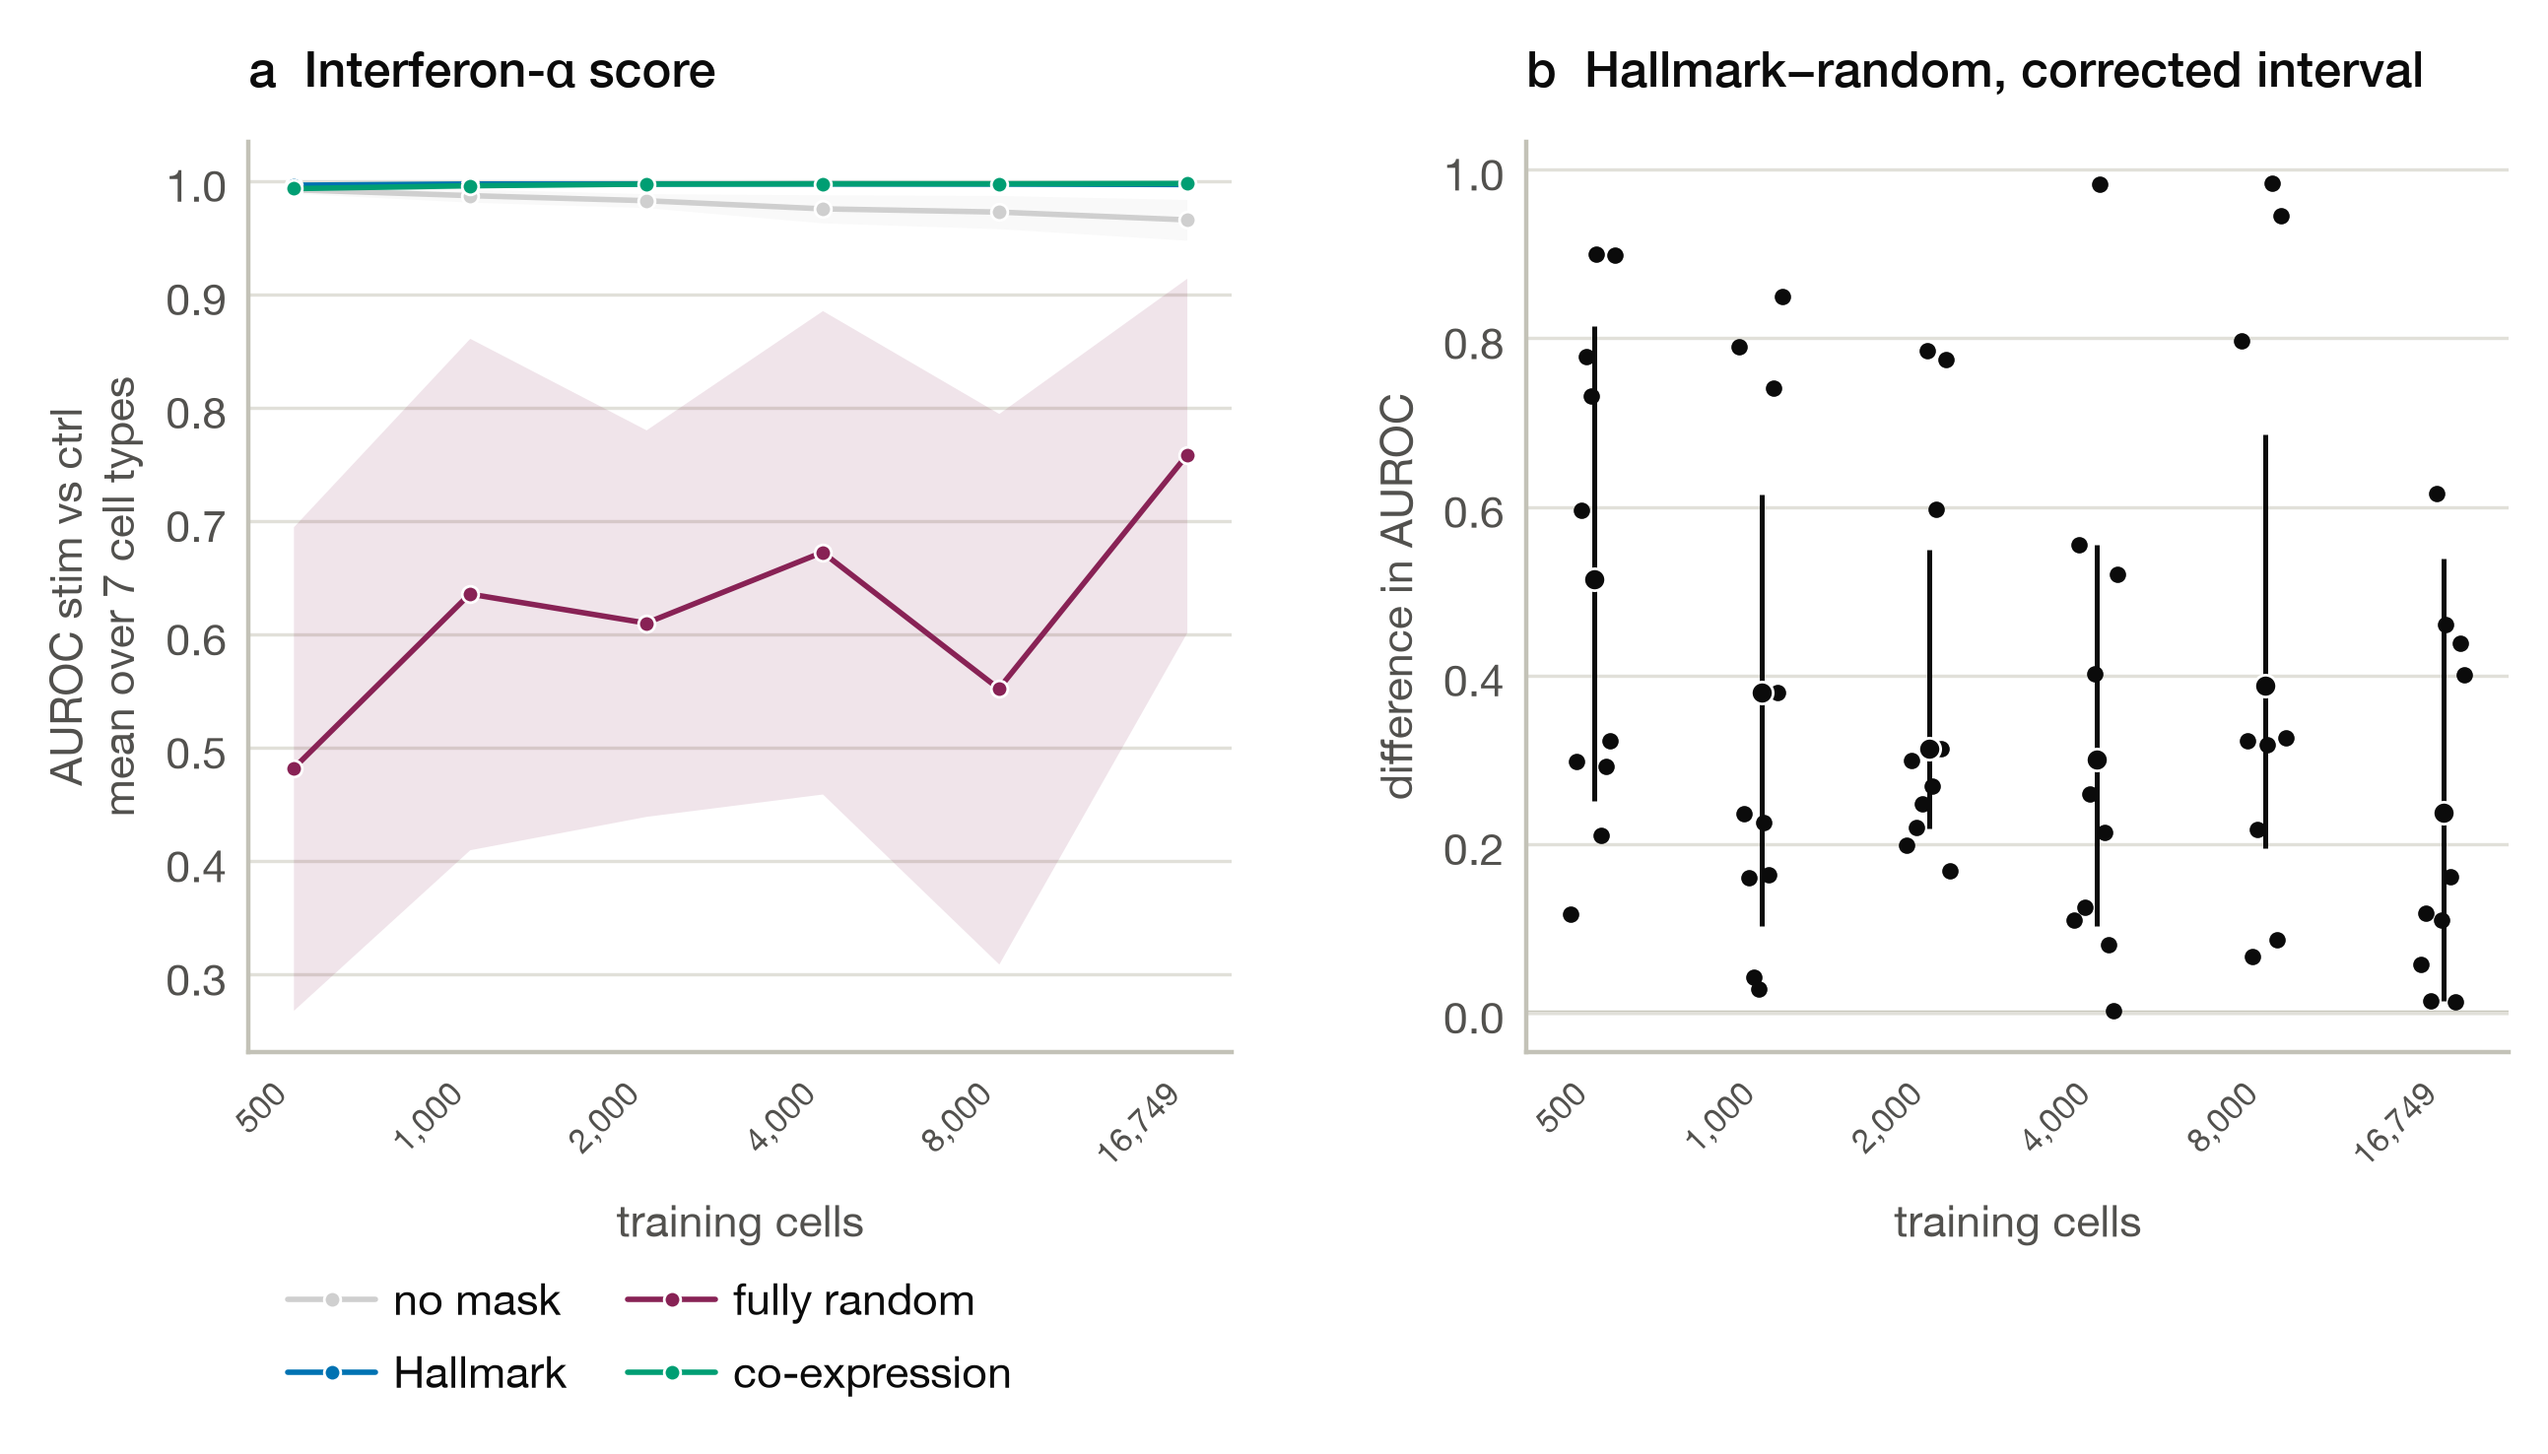
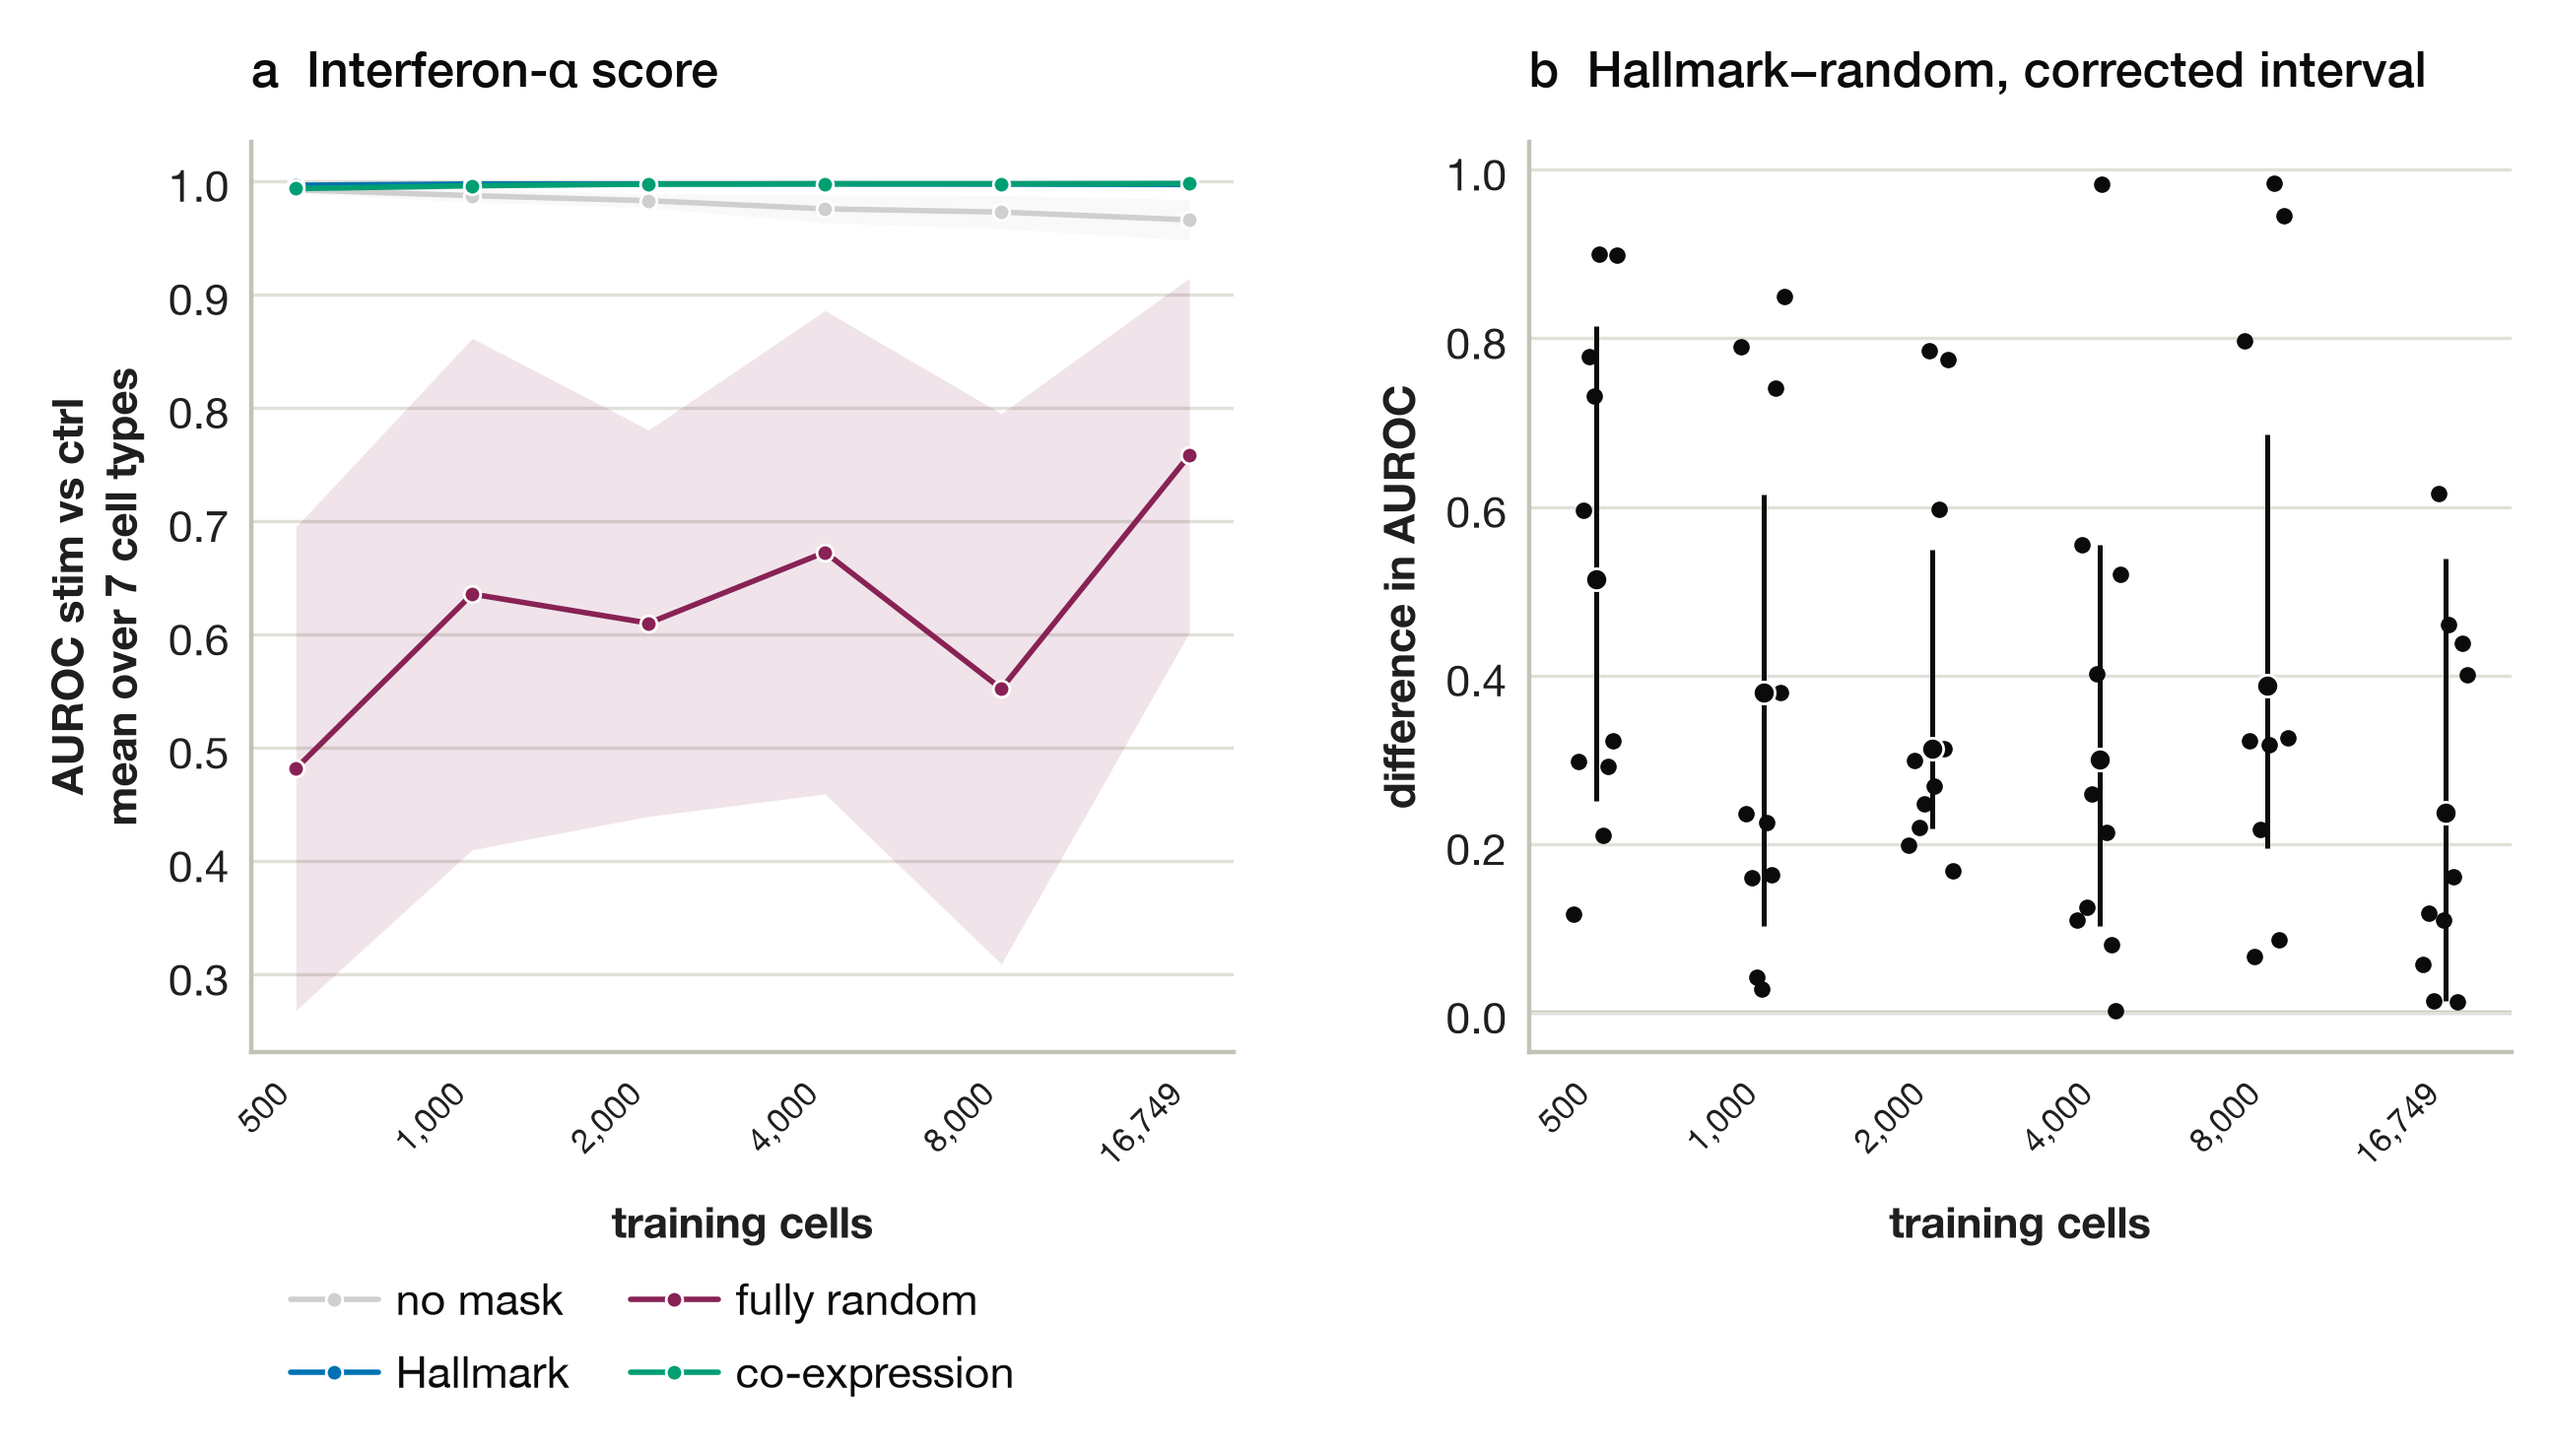
Name data sets by first author, darker axis text, stage figures

diff --git a/src/09_figures.py b/src/09_figures.py
@@ -22,8 +22,8 @@ order = list(colors)
 plt.rcParams.update({
     "font.family": "sans-serif", "font.sans-serif": ["Helvetica Neue", "Helvetica", "Arial", "DejaVu Sans"],
     "font.size": 8, "axes.titlesize": 9, "axes.titleweight": "medium", "axes.titlelocation": "left",
-    "axes.titlepad": 10, "axes.labelsize": 8, "text.color": ink, "axes.labelcolor": secondary,
-    "xtick.color": baseline, "ytick.color": baseline, "xtick.labelcolor": secondary, "ytick.labelcolor": secondary,
+    "axes.titlepad": 10, "axes.labelsize": 8, "axes.labelweight": "bold", "text.color": ink, "axes.labelcolor": "#1f1f1f",
+    "xtick.color": baseline, "ytick.color": baseline, "xtick.labelcolor": "#1f1f1f", "ytick.labelcolor": "#1f1f1f",
     "xtick.major.size": 0, "ytick.major.size": 0, "xtick.major.pad": 4, "ytick.major.pad": 4,
     "axes.edgecolor": baseline, "axes.linewidth": 0.8, "axes.spines.top": False, "axes.spines.right": False,
     "axes.grid": True, "grid.color": grid, "grid.linewidth": 0.6, "axes.axisbelow": True,
@@ -51,7 +51,7 @@ mask_name = "Reactome" if collection == "reactome" else "Hallmark"
 if True:  # one figure per benchmark (SC_DATA, SC_SETS); the main experiment (kang/hallmark) continues below, every other benchmark stops here
     # the four measures that choose no latent, one dot per seed
     ticks["real"] = mask_name
-    bench_label = {"kang": "Kang IFN-β", "oesinghaus_ifn_beta": "Oesinghaus IFN-β", "oesinghaus_il_2": "Oesinghaus IL-2"}[data]
+    bench_label = {"kang": "Kang et al. IFN-β", "oesinghaus_ifn_beta": "Theis et al. IFN-β", "oesinghaus_il_2": "Theis et al. IL-2"}[data]
     tables, out = Path(f"reports/tables/{run}"), Path("reports/figures")
     out.mkdir(parents=True, exist_ok=True)
     offset = dict(zip(range(10), np.linspace(-0.18, 0.18, 10)))  # each seed keeps its position in every panel
@@ -169,7 +169,7 @@ for x, head in [(0.7, "1  Data"), (2.3, "2  Model"), (4.55, "3  Decoder masks"),
     label(x, 2.53, head, size=8.5, color=ink, weight="bold")  # each title centred over its panel
 
 # 1 data: two clouds of cells
-for (cy, c, text) in [(1.8, baseline, "control"), (0.9, "#CC79A7", "IFN-β, 6 h")]:
+for (cy, c, text) in [(1.8, "#6f6e68", "control"), (0.9, "#CC79A7", "IFN-β, 6 h")]:
     xy = np.clip(rng.normal([0.5, cy], [0.15, 0.11], size=(80, 2)), [0.2, cy - 0.24], [0.8, cy + 0.24])
     bg.scatter(xy[:, 0], xy[:, 1], s=5.5, color=c, lw=0, zorder=2)
     label(0.88, cy, text, ha="left", color=ink)
@@ -338,11 +338,11 @@ if (tables / "learning_curves_scores.csv").exists():
 
 # 6. Pipeline: the phases of the analysis, one box per step; what varies between benchmarks under the step that varies it,
 # and the two extra analyses as dashed boxes under the step they change
-phases = {"Data": ("#e3eef7", "#5b9bd5"), "Design": ("#fbe6cf", "#e69f00"), "Model": ("#ecdcf0", "#a86fb5"),
+phases = {"Data": ("#e3eef7", "#5b9bd5"), "Design": ("#f1dfe8", "#882255"), "Model": ("#ecdcf0", "#a86fb5"),
           "Evaluation": ("#d6eeea", "#2a9d8f")}
-steps = [("Data", "Cells of a\ncontrast"), ("Data", "Cell QC"), ("Data", "Gene\nfilter"), ("Design", "Split"),
+steps = [("Data", "Single-cell\ndata"), ("Data", "Cell QC"), ("Data", "Gene\nfilter"), ("Design", "Split"),
          ("Design", "Gene sets"), ("Design", "Five\nmasks"), ("Model", "VAE"), ("Evaluation", "Measures"), ("Evaluation", "Tests")]
-stacks = {0: [("Kang IFN-β", 0), ("Oesinghaus", 0), ("IFN-β", 1), ("IL-2", 1)], 4: [("Hallmark", 0), ("Reactome", 0)],
+stacks = {0: [("Kang et al. IFN-β", 0), ("Theis et al.", 0), ("IFN-β", 1), ("IL-2", 1)], 4: [("Hallmark", 0), ("Reactome", 0)],
           5: [("gene sets", 0), ("co-expression", 0), ("random", 0), ("fully random", 1), ("within-set random", 1), ("no mask", 0)],
           2: [("Without the 250\nstrongest genes", 0)],
           3: [("Learning curves", 0), ("500 cells", 1), ("1,000 cells", 1), ("2,000 cells", 1), ("4,000 cells", 1),
@@ -401,6 +401,57 @@ for phase, (lo, hi) in span.items():  # a label and a line above each phase
 fig.savefig(out / "pipeline.png")
 plt.close(fig)
 
+# Stages of the pipeline, one figure per part of the Methods (the paper places each beside its subsection)
+def stage_figure(first, last, name, width=6.3, scale=1.0):
+    bw_, bh_, gap_, gp_ = 1.55, 0.6, 0.35, 0.35
+    ks = list(range(first, last + 1))
+    fw = 0.2 + len(ks) * bw_ + sum(gp_ if steps[k][0] != steps[k + 1][0] else gap_ for k in ks[:-1])
+    tall = max(len(stacks.get(k, [])) for k in ks)
+    def stack_h(k):  # the height of the small boxes under a step, as drawn below
+        return sum((0.26 * 1.7 if "\n" in i else 0.26) + 0.07 for i, _ in stacks.get(k, []))
+    fh = 0.95 + 0.12 + max(stack_h(k) for k in ks) + 0.1
+    f = plt.figure(figsize=(fw, fh))
+    ax = f.add_axes([0, 0, 1, 1]); ax.set(xlim=(0, fw), ylim=(0, fh)); ax.axis("off")
+    x, y = 0.1, fh - 0.95
+    first_x, spanx = x, {}
+    for k in ks:
+        phase, nm = steps[k]
+        fill, edge = phases[phase]
+        ax.add_patch(matplotlib.patches.FancyBboxPatch((x, y), bw_, bh_, boxstyle="round,pad=0,rounding_size=0.06", fc=fill, ec=edge, lw=1.1))
+        ax.text(x + bw_ / 2, y + bh_ / 2, nm, ha="center", va="center", fontsize=9, color=ink, linespacing=1.1)
+        lo, hi = spanx.get(phase, (x, x)); spanx[phase] = (min(lo, x), x + bw_)
+        if k in stacks:
+            h, pad, left0, indent, right = 0.26, 0.07, x + 0.16, 0.22, x + bw_ - 0.04
+            yt, boxes = y - 0.12, []
+            for item, level in stacks[k]:
+                bh2 = h * 1.7 if "\n" in item else h
+                yt -= bh2; boxes.append((item, level, left0 + level * indent, yt, bh2)); yt -= pad
+            top_level = [b for b in boxes if b[1] == 0]
+            ax.plot([x + 0.05] * 2, [y, top_level[-1][3] + top_level[-1][4] / 2], color=muted, lw=0.9, zorder=0)
+            for n, (item, level, left, yb, bh2) in enumerate(boxes):
+                ax.add_patch(matplotlib.patches.FancyBboxPatch((left, yb), right - left, bh2, boxstyle="round,pad=0,rounding_size=0.05", fc="#f3f2ee" if k in (2, 3) else surface, ec=muted if k in (2, 3) else phases[phase][1], lw=0.9, zorder=2))
+                ax.text((left + right) / 2, yb + bh2 / 2, item, ha="center", va="center", fontsize=7.5 if level else 8, color=ink, linespacing=1.1, zorder=3)
+                if level == 0:
+                    ax.plot([x + 0.05, left], [yb + bh2 / 2] * 2, color=muted, lw=0.9, zorder=0)
+                else:
+                    parent = next(b for b in reversed(boxes[:n]) if b[1] == 0)
+                    el = parent[2] + 0.1
+                    ax.plot([el, el, left], [parent[3], yb + bh2 / 2, yb + bh2 / 2], color=muted, lw=0.9, zorder=0)
+        if k != ks[-1]:
+            st = gp_ if steps[k + 1][0] != phase else gap_
+            ax.annotate("", (x + bw_ + st, y + bh_ / 2), (x + bw_, y + bh_ / 2), arrowprops=dict(arrow, lw=1.8, color=ink, mutation_scale=10) if phase == "Model" else arrow)
+            x += bw_ + st
+    for ph, (lo, hi) in spanx.items():
+        ax.plot([lo, hi], [y + bh_ + 0.12] * 2, color=phases[ph][1], lw=1.5, solid_capstyle="round")
+        ax.text((lo + hi) / 2, y + bh_ + 0.25, ph, ha="center", va="center", fontsize=9.5, fontweight="bold", color=ink)
+    f.savefig(out / name, dpi=300); plt.close(f)
+
+
+stage_figure(0, 2, "stage_data.png")
+stage_figure(3, 5, "stage_design.png")
+stage_figure(6, 8, "stage_evaluation.png")
+
+
 # 7. Overarching figures: the six benchmarks side by side (Q1c to Q1f). One line weight and one point size for every line plot.
 import matplotlib.transforms as mtransforms
 
@@ -409,7 +460,7 @@ grey = "#9a9a9a"
 vcolor = {**colors, "vanilla": grey}
 vnames = {**names, "real": "gene sets"}
 bench_rows, bench_groups, y_ = [], [], 0.0
-for d_, label_ in [("kang", "Kang IFN-β"), ("oesinghaus_ifn_beta", "Oesinghaus IFN-β"), ("oesinghaus_il_2", "Oesinghaus IL-2")]:
+for d_, label_ in [("kang", "Kang et al. IFN-β"), ("oesinghaus_ifn_beta", "Theis et al.\nIFN-β"), ("oesinghaus_il_2", "Theis et al.\nIL-2")]:
     first = y_
     for c_ in ("hallmark", "reactome"):
         bench_rows.append((f"{d_}/{c_}", c_.capitalize(), y_))
@@ -430,7 +481,7 @@ def advantage_figure(measures, name, size):
     # advantage of the gene sets over each other mask, with the interval of the paired test
     others = [(v, names[v], vcolor[v]) for v in ("shuffled", "setshuffle", "coexpression")]  # each line in the colour of the mask it is compared with
     rows, groups, ya = [], [], 0.0
-    for d_, label_ in [("kang", "Kang IFN-β"), ("oesinghaus_ifn_beta", "Oesinghaus IFN-β"), ("oesinghaus_il_2", "Oesinghaus IL-2")]:
+    for d_, label_ in [("kang", "Kang et al. IFN-β"), ("oesinghaus_ifn_beta", "Theis et al.\nIFN-β"), ("oesinghaus_il_2", "Theis et al.\nIL-2")]:
         first = ya
         for c_ in ("hallmark", "reactome"):
             rows.append((f"{d_}/{c_}", c_.capitalize(), ya))
@@ -459,7 +510,7 @@ def advantage_figure(measures, name, size):
         group_names(axs[0], groups)
         for _, label, c in others:
             axs[0].plot([], [], color=c, label=f"gene sets minus {label}")
-        fig.legend(*axs[0].get_legend_handles_labels(), frameon=False, fontsize=7.5, ncol=3, loc="upper center", bbox_to_anchor=(0.55, 1.03))
+        fig.legend(*axs[0].get_legend_handles_labels(), frameon=False, fontsize=7.5, ncol=3, loc="upper center", bbox_to_anchor=(0.55, -0.02))
         fig.savefig(out / name)
         plt.close(fig)
 
@@ -507,11 +558,11 @@ def share_figure(name):
         fig, (ax_a, ax_b) = plt.subplots(2, 1, figsize=(6.4, 5.0), gridspec_kw={"height_ratios": [3.4, 1.6], "hspace": 0.35})
         share_panel(ax_a, bench_rows, bench_groups, "a  Six benchmarks")
         share_panel(ax_b, [("kang/hallmark", "all 12,034 genes", 0.0), ("kang_drop250/hallmark", "250 strongest\nresponse genes\ndropped", 1.2)], [],
-                    "b  Kang, Hallmark sets, without the 250 strongest genes")
+                    "b  Kang et al. data, Hallmark sets, without the 250 strongest genes")
         ax_b.set_xlabel("relative decoded response (%)")
         for v in ("real", "coexpression", "setshuffle"):
             ax_a.plot([], [], color=vcolor[v], label=vnames[v])
-        ax_a.legend(frameon=False, fontsize=7.5, ncol=3, loc="lower center", bbox_to_anchor=(0.4, 1.12))
+        fig.legend(*ax_a.get_legend_handles_labels(), frameon=False, fontsize=7.5, ncol=3, loc="upper center", bbox_to_anchor=(0.55, -0.005))
         fig.savefig(out / name)
         plt.close(fig)
 
@@ -538,7 +589,7 @@ def levels_figures():
             ax.text(ci * 12 + 5, -0.16, label, ha="center", va="top", fontsize=8, fontweight="bold", transform=belows)
         for v in order_:
             ax.plot([], [], "o", color=vcolor[v], markersize=PT, label=vnames[v])
-        ax.legend(frameon=False, fontsize=7.5, ncol=5, loc="lower center", bbox_to_anchor=(0.5, 1.0))
+        ax.legend(frameon=False, fontsize=7.5, ncol=5, loc="upper center", bbox_to_anchor=(0.5, -0.3))
         fig.savefig(out / "levels_benchmarks.png")
         plt.close(fig)
         fig, ax = plt.subplots(figsize=(4.6, 3.0))
@@ -555,7 +606,7 @@ def levels_figures():
         ax.grid(axis="y", color=grid, lw=0.6)
         for v in order_:
             ax.plot([], [], "o", color=vcolor[v], markersize=PT, label=vnames[v])
-        ax.legend(frameon=False, fontsize=7, ncol=3, loc="lower center", bbox_to_anchor=(0.5, 1.0), columnspacing=1, handletextpad=0.2)
+        ax.legend(frameon=False, fontsize=7, ncol=3, loc="upper center", bbox_to_anchor=(0.5, -0.2), columnspacing=1, handletextpad=0.2)
         fig.savefig(out / "levels_Q1c.png")
         plt.close(fig)
 
@@ -583,7 +634,7 @@ def named_latent_figure():
             ax.text(ci * 12 + 5, -0.16, label, ha="center", va="top", fontsize=8, fontweight="bold", transform=belows)
         for v in order_:
             ax.plot([], [], "o", color=vcolor[v], markersize=PT, label=vnames[v])
-        ax.legend(frameon=False, fontsize=7.5, ncol=5, loc="lower center", bbox_to_anchor=(0.5, 1.0))
+        ax.legend(frameon=False, fontsize=7.5, ncol=5, loc="upper center", bbox_to_anchor=(0.5, -0.3))
         fig.savefig(out / "named_latent.png")
         plt.close(fig)
 
